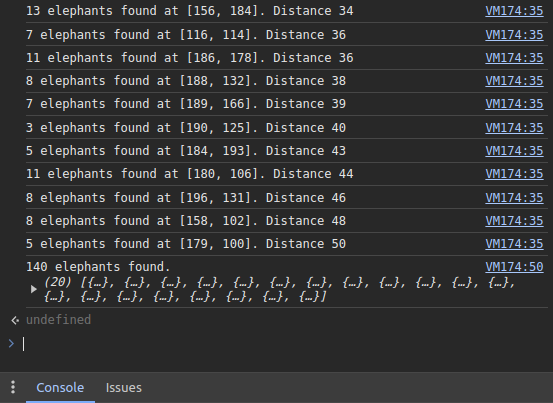
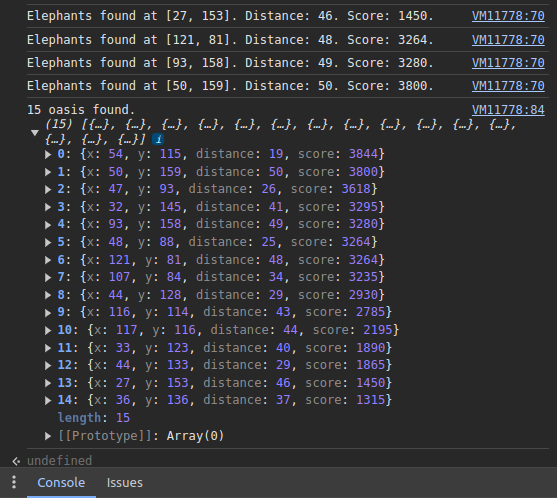
feat: use score instead of elephant count

Changed region(s): [[0.0, 0.0, 0.9837, 1.0], [0.8608, 0.4764, 0.9837, 0.5062], [0.1844, 0.9529, 0.2767, 0.9826]]

diff --git a/main.ts b/main.ts
@@ -1,4 +1,4 @@
-import { AnimalInfo, Config } from './types';
+import { Oasis, Config } from './types';
 
 const CONFIG: Config = {
   server: 'ts1.x1.europe.travian.com',
@@ -7,10 +7,26 @@ const CONFIG: Config = {
     y: 150,
   },
   searchRadius: 50,
+  cages: 22,
 };
 
-const results: AnimalInfo[] = [];
-const elephantPattern = new RegExp(`title=\"Elephant\"/></td>\n\\s*<td class=\"val\">(\\d+)</td>`);
+const results: Oasis[] = [];
+const animalPattern = (animal: keyof typeof ANIMALS) =>
+  new RegExp(`title=\"${animal}\"/></td>\n\\s*<td class=\"val\">(\\d+)</td>`);
+const ANIMALS = {
+  'Rat': 25,
+  'Spider': 35,
+  'Snake': 40,
+  'Bat': 66,
+  'Wild Boar': 70,
+  'Wolf': 80,
+  'Bear': 140,
+  'Crocodile': 380,
+  'Tiger': 170,
+  'Elephant': 440,
+};
+
+// 6*70+6*80+5*140+5*440
 
 let promises: Promise<any>[] = [];
 for (let r = 1; r <= CONFIG.searchRadius; r++) {
@@ -36,11 +52,43 @@ for (let r = 1; r <= CONFIG.searchRadius; r++) {
         );
 
         const responseData = await response.json();
-        const match = elephantPattern.exec(responseData.html);
-        if (match) {
-          const elephants = match[1];
-          console.log(`${elephants} elephants found at [${x}, ${y}]. Distance ${r}`);
-          results.push({ x, y, distance: r, elephants: Number(elephants) });
+
+        const animalsArray = Object.keys(ANIMALS).reduce((acc, animal) => {
+          const match = animalPattern(animal as keyof typeof ANIMALS).exec(responseData.html);
+          acc[animal as keyof typeof ANIMALS] = match
+            ? Array.from({ length: Number(match[1]) })
+            : [];
+
+          return acc;
+        }, {} as Record<keyof typeof ANIMALS, undefined[] | undefined>);
+
+        const elephantsArray = animalsArray['Elephant'] || [];
+        if (elephantsArray.length > 0) {
+          let score = 0;
+          let animalIndex = 0;
+          let cagesLeft = CONFIG.cages;
+          while (cagesLeft > 0) {
+            if (Object.keys(animalsArray).length === 0) {
+              break;
+            }
+
+            const animal = Object.keys(animalsArray)[animalIndex] as keyof typeof ANIMALS;
+            if (animalsArray[animal]?.length === 0) {
+              delete animalsArray[animal];
+              continue;
+            }
+
+            if ((animalsArray[animal]?.length || 0) > 0) {
+              score += ANIMALS[animal];
+              animalsArray[animal]?.pop();
+              cagesLeft--;
+            }
+
+            animalIndex = (animalIndex + 1) % Object.keys(animalsArray).length;
+          }
+
+          console.log(`Elephants found at [${x}, ${y}]. Distance: ${r}. Score: ${score}.`);
+          results.push({ x, y, distance: r, score });
         }
         resolve(null);
       });
@@ -56,5 +104,7 @@ for (let r = 1; r <= CONFIG.searchRadius; r++) {
 
 await Promise.all(promises);
 
-const total = results.reduce((acc, info) => acc + Number(info.elephants), 0);
-console.log(`${total} elephants found.`, results);
+console.log(
+  `${results.length} oasis found.`,
+  results.sort((a, b) => b.score - a.score)
+);

diff --git a/build/main.js b/build/main.js
@@ -5,10 +5,23 @@ var CONFIG = {
     x: 150,
     y: 150
   },
-  searchRadius: 50
+  searchRadius: 50,
+  cages: 22
 };
 var results = [];
-var elephantPattern = new RegExp(`title=\"Elephant\"/></td>\n\\s*<td class=\"val\">(\\d+)</td>`);
+var animalPattern = (animal) => new RegExp(`title=\"${animal}\"/></td>\n\\s*<td class=\"val\">(\\d+)</td>`);
+var ANIMALS = {
+  Rat: 25,
+  Spider: 35,
+  Snake: 40,
+  Bat: 66,
+  "Wild Boar": 70,
+  Wolf: 80,
+  Bear: 140,
+  Crocodile: 380,
+  Tiger: 170,
+  Elephant: 440
+};
 var promises = [];
 for (let r = 1;r <= CONFIG.searchRadius; r++) {
   for (let dx = -r;dx <= r; dx++) {
@@ -28,11 +41,34 @@ for (let r = 1;r <= CONFIG.searchRadius; r++) {
           body: JSON.stringify({ x, y })
         });
         const responseData = await response.json();
-        const match = elephantPattern.exec(responseData.html);
-        if (match) {
-          const elephants = match[1];
-          console.log(`${elephants} elephants found at [${x}, ${y}]. Distance ${r}`);
-          results.push({ x, y, distance: r, elephants: Number(elephants) });
+        const animalsArray = Object.keys(ANIMALS).reduce((acc, animal) => {
+          const match = animalPattern(animal).exec(responseData.html);
+          acc[animal] = match ? Array.from({ length: Number(match[1]) }) : [];
+          return acc;
+        }, {});
+        const elephantsArray = animalsArray["Elephant"] || [];
+        if (elephantsArray.length > 0) {
+          let score = 0;
+          let animalIndex = 0;
+          let cagesLeft = CONFIG.cages;
+          while (cagesLeft > 0) {
+            if (Object.keys(animalsArray).length === 0) {
+              break;
+            }
+            const animal = Object.keys(animalsArray)[animalIndex];
+            if (animalsArray[animal]?.length === 0) {
+              delete animalsArray[animal];
+              continue;
+            }
+            if ((animalsArray[animal]?.length || 0) > 0) {
+              score += ANIMALS[animal];
+              animalsArray[animal]?.pop();
+              cagesLeft--;
+            }
+            animalIndex = (animalIndex + 1) % Object.keys(animalsArray).length;
+          }
+          console.log(`Elephants found at [${x}, ${y}]. Distance: ${r}. Score: ${score}.`);
+          results.push({ x, y, distance: r, score });
         }
         resolve(null);
       });
@@ -45,5 +81,4 @@ for (let r = 1;r <= CONFIG.searchRadius; r++) {
   }
 }
 await Promise.all(promises);
-var total = results.reduce((acc, info) => acc + Number(info.elephants), 0);
-console.log(`${total} elephants found.`, results);
+console.log(`${results.length} oasis found.`, results.sort((a, b) => b.score - a.score));

diff --git a/types.ts b/types.ts
@@ -5,6 +5,7 @@ export type Config = {
     y: number;
   };
   searchRadius: number;
+  cages: number;
 };
 
-export type AnimalInfo = { x: number; y: number; distance: number; elephants: number };
+export type Oasis = { x: number; y: number; distance: number; score: number };

diff --git a/README.md b/README.md
@@ -23,9 +23,23 @@ var CONFIG = {
     y: 150,
   },
   searchRadius: 50,
+  cages: 22,
 };
 var results = [];
-var elephantPattern = new RegExp(`title=\"Elephant\"/></td>\n\\s*<td class=\"val\">(\\d+)</td>`);
+var animalPattern = (animal) =>
+  new RegExp(`title=\"${animal}\"/></td>\n\\s*<td class=\"val\">(\\d+)</td>`);
+var ANIMALS = {
+  'Rat': 25,
+  'Spider': 35,
+  'Snake': 40,
+  'Bat': 66,
+  'Wild Boar': 70,
+  'Wolf': 80,
+  'Bear': 140,
+  'Crocodile': 380,
+  'Tiger': 170,
+  'Elephant': 440,
+};
 var promises = [];
 for (let r = 1; r <= CONFIG.searchRadius; r++) {
   for (let dx = -r; dx <= r; dx++) {
@@ -48,11 +62,34 @@ for (let r = 1; r <= CONFIG.searchRadius; r++) {
           }
         );
         const responseData = await response.json();
-        const match = elephantPattern.exec(responseData.html);
-        if (match) {
-          const elephants = match[1];
-          console.log(`${elephants} elephants found at [${x}, ${y}]. Distance ${r}`);
-          results.push({ x, y, distance: r, elephants: Number(elephants) });
+        const animalsArray = Object.keys(ANIMALS).reduce((acc, animal) => {
+          const match = animalPattern(animal).exec(responseData.html);
+          acc[animal] = match ? Array.from({ length: Number(match[1]) }) : [];
+          return acc;
+        }, {});
+        const elephantsArray = animalsArray['Elephant'] || [];
+        if (elephantsArray.length > 0) {
+          let score = 0;
+          let animalIndex = 0;
+          let cagesLeft = CONFIG.cages;
+          while (cagesLeft > 0) {
+            if (Object.keys(animalsArray).length === 0) {
+              break;
+            }
+            const animal = Object.keys(animalsArray)[animalIndex];
+            if (animalsArray[animal]?.length === 0) {
+              delete animalsArray[animal];
+              continue;
+            }
+            if ((animalsArray[animal]?.length || 0) > 0) {
+              score += ANIMALS[animal];
+              animalsArray[animal]?.pop();
+              cagesLeft--;
+            }
+            animalIndex = (animalIndex + 1) % Object.keys(animalsArray).length;
+          }
+          console.log(`Elephants found at [${x}, ${y}]. Distance: ${r}. Score: ${score}.`);
+          results.push({ x, y, distance: r, score });
         }
         resolve(null);
       });
@@ -65,8 +102,10 @@ for (let r = 1; r <= CONFIG.searchRadius; r++) {
   }
 }
 await Promise.all(promises);
-var total = results.reduce((acc, info) => acc + Number(info.elephants), 0);
-console.log(`${total} elephants found.`, results);
+console.log(
+  `${results.length} oasis found.`,
+  results.sort((a, b) => b.score - a.score)
+);
 ```
 
 ## Screenshots
